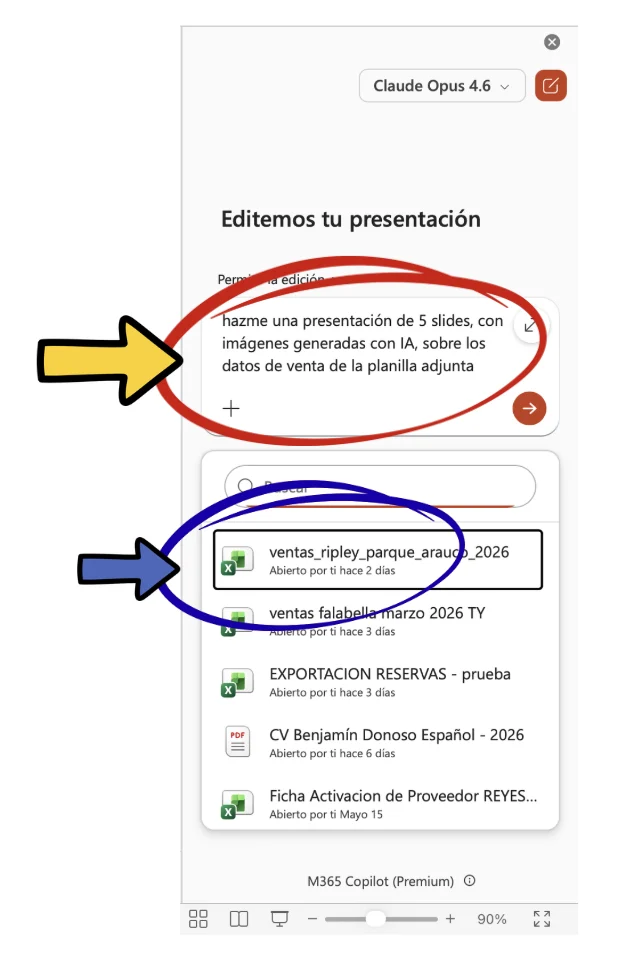
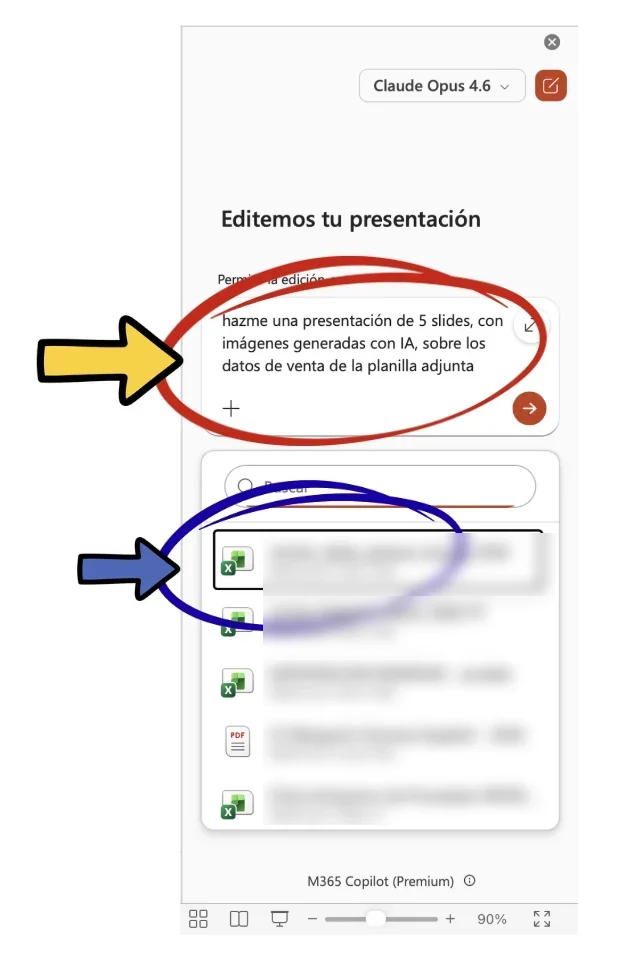
fix(claude): botón «Ir al paso» en azul y capturas sin datos de clientes
El botón de «Lo que sigue ahora» usaba el mismo naranjo sólido que las
tarjetas de sesión, así que en móvil el bloque seguía leyéndose como
una sesión más. Pasa al azul de su propio panel.

Se difuminan los datos de terceros en tres capturas ya publicadas:
nombres de clientes y de personas en la lista de proyectos, el
contenido de Memoria e Instrucciones, los chats de la barra lateral y
los nombres de archivos de clientes en el panel de PowerPoint. Las
anotaciones y el punto didáctico de cada imagen quedan intactos.

Changed region(s): [[0.4277, 0.5312, 0.8859, 0.875], [0.7942, 0.75, 0.8553, 0.7812]]

diff --git a/claude-jul26-k7x9/index.html b/claude-jul26-k7x9/index.html
@@ -256,14 +256,15 @@
     .sigue-t { font-size:18px; font-weight:500; color:#F4F5F7; letter-spacing:-.01em; }
     .sigue-h { font-size:13.5px; color:rgba(233,234,238,.52); margin-top:4px; }
     .sigue .lbl { display:block; margin-bottom:7px; }
-    /* El botón se queda naranjo y sólido: dentro del panel azul, es la acción */
+    /* Azul como su panel: el naranjo es de las sesiones, y este botón no
+       lleva a una sesión sino al siguiente paso pendiente */
     .sigue-btn {
       display:inline-flex; align-items:center; gap:10px; padding:12px 24px; border-radius:12px;
-      font-size:14.5px; font-weight:600; white-space:nowrap; color:#160B04;
-      background:linear-gradient(100deg,#F0A46A,#D66E36);
-      box-shadow:0 12px 28px -14px rgba(214,110,54,.9); transition:filter .15s;
+      font-size:14.5px; font-weight:600; white-space:nowrap; color:#07111C;
+      background:linear-gradient(100deg,#8FBEEC,#4C82C4);
+      box-shadow:0 12px 28px -14px rgba(90,140,210,.95); transition:filter .15s;
     }
-    .sigue-btn:hover { filter:brightness(1.06); color:#160B04; }
+    .sigue-btn:hover { filter:brightness(1.07); color:#07111C; }
 
     /* ---------- Pie ---------- */
     .pie {
